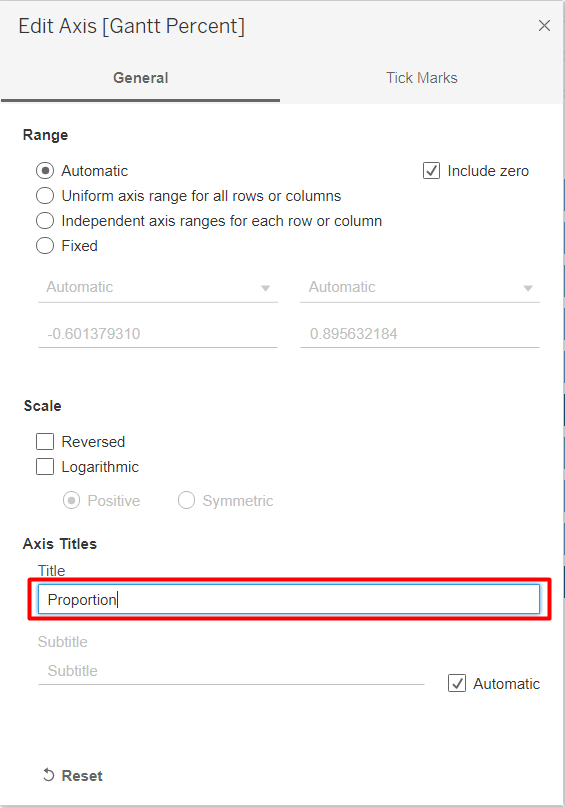
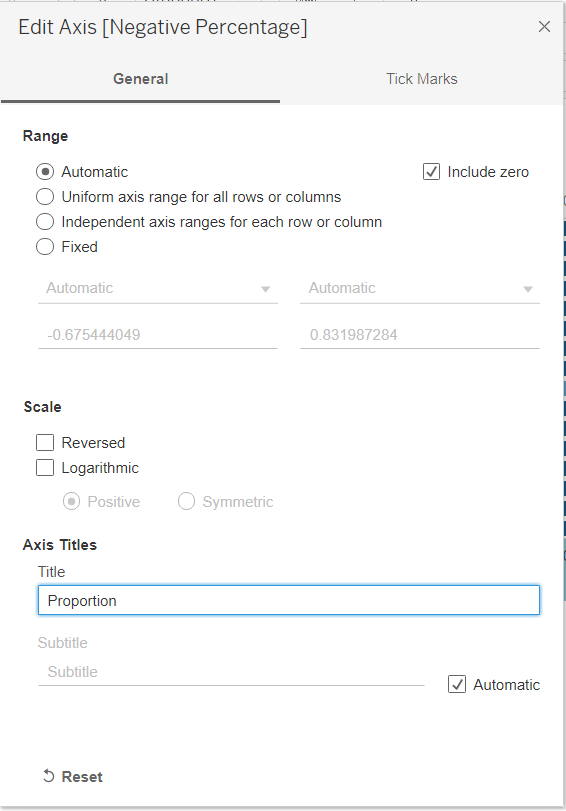
4.2. Diverging Stacked Bar Chart

diff --git a/_posts/2021-02-12-dataviz-makeover-2/dataviz-makeover-2.html b/_posts/2021-02-12-dataviz-makeover-2/dataviz-makeover-2.html
@@ -114,6 +114,9 @@ code span.wa { color: #5e5e5e; font-style: italic; } /* Warning */
   <meta name="citation_reference" content="citation_title=How to choose the colors for your data visualizations;citation_publication_date=2019;citation_author=Michael Yi"/>
   <meta name="citation_reference" content="citation_title=Why itâ€™s so hard for us to visualize uncertainty;citation_publication_date=2016;citation_author=Nicole Torres"/>
   <meta name="citation_reference" content="citation_title=Choosing colors for data visualization;citation_publication_date=2006;citation_author=M. Stone"/>
+  <meta name="citation_reference" content="citation_title=Seven different ways to display likert scale data;citation_publication_date=2020;citation_author=Alana Pirrone"/>
+  <meta name="citation_reference" content="citation_title=Rethinking the divergent stacked bar chart - placing the stronger views in the center;citation_publication_date=2020;citation_author=Steve Wexler"/>
+  <meta name="citation_reference" content="citation_title=5 tips on designing colorblind-friendly visualizations;citation_author=Jeffrey Shaffer"/>
   <!--radix_placeholder_rmarkdown_metadata-->
   
   <script type="text/json" id="radix-rmarkdown-metadata">
@@ -122,7 +125,7 @@ code span.wa { color: #5e5e5e; font-style: italic; } /* Warning */
   <!--/radix_placeholder_rmarkdown_metadata-->
   
   <script type="text/json" id="radix-resource-manifest">
-  {"type":"character","attributes":{},"value":["biblio.bibtex","biblio.yaml","dataviz-makeover-2_files/anchor-4.2.2/anchor.min.js","dataviz-makeover-2_files/bowser-1.9.3/bowser.min.js","dataviz-makeover-2_files/distill-2.2.21/template.v2.js","dataviz-makeover-2_files/jquery-1.11.3/jquery.min.js","dataviz-makeover-2_files/popper-2.6.0/popper.min.js","dataviz-makeover-2_files/tippy-6.2.7/tippy-bundle.umd.min.js","dataviz-makeover-2_files/tippy-6.2.7/tippy-light-border.css","dataviz-makeover-2_files/tippy-6.2.7/tippy.css","dataviz-makeover-2_files/tippy-6.2.7/tippy.umd.min.js","dataviz-makeover-2_files/webcomponents-2.0.0/webcomponents.js","images/2. Original Visualisation.png","images/3. Alternative Visualisation Design.jpeg","images/4.1. Add New Union.png","images/4.1. Change Data Type.png","images/4.1. Connect to Data.png","images/4.1. Custom Split.png","images/4.1. Describe Field.png","images/4.1. Edit Aliases.png","images/4.1. Export Full Data.png","images/4.1. Go to Worksheet.png","images/4.1. Hide Unused Columns.png","images/4.1. Include all csv files.png","images/4.1. Remove table.png","images/4.1. View Data.png","images/4.2. Compute Using Selected_Survey_Item.png","images/4.2. Convert to Dimension.png","images/4.2. Count Negative Formula.png","images/4.2. Create Parameter.png","images/4.2. Edit Axis Title.png","images/4.2. Edit Colors.png","images/4.2. Edit Legend Alias.png","images/4.2. Edit Title.png","images/4.2. Edit Tooltip.png","images/4.2. Exclude Nulls.png","images/4.2. Format Tick Mark Labels.png","images/4.2. Format Tooltip Percentage.png","images/4.2. Gantt Percent Formula.png","images/4.2. Gantt Start Formula.png","images/4.2. Number of Records Formula.png","images/4.2. Percentage Formula.png","images/4.2. Rows and Columns.png","images/4.2. Select Colour for Selected Survey Item.png","images/4.2. Selected Survey Item Formula.png","images/4.2. Show Parameter.png","images/4.2. Sort Selected Survey Item in Descending Order.png","images/4.2. Total Count Formula.png","images/4.2. Total Count Negative Formula.png","images/4.3. Add Confidence Interval.png","images/4.3. Add Path and Colour.png","images/4.3. Add Prop and Convert to Discrete.png","images/4.3. Add Title.png","images/4.3. Align Country Right.png","images/4.3. Convert Rank to Discrete.png","images/4.3. Convert to Dual Axis.png","images/4.3. Count Selected Response Formula.png","images/4.3. Create Paramenter - Response.png","images/4.3. Edit Tooltip.png","images/4.3. Filter Selected Survey Item.png","images/4.3. Fix Axis.png","images/4.3. Format Axis Title.png","images/4.3. Prop 95% Lower Limit.png","images/4.3. Prop 95% Upper Limit.png","images/4.3. Prop 99% Lower Limit.png","images/4.3. Prop 99% Upper Limit.png","images/4.3. Prop Formula.png","images/4.3. Proportion Circle Marks.png","images/4.3. Rank Formula.png","images/4.3. Remove Column Divider.png","images/4.3. Remove Gridline.png","images/4.3. Remove Header.png","images/4.3. Select Colours.png","images/4.3. Show Error Bars.png","images/4.3. Sort by Measure Values.png","images/4.3. Sort Formula.png","images/4.3. Sort Prop Descending.png","images/4.3. Synchronize Axis.png"]}
+  {"type":"character","attributes":{},"value":["biblio.bibtex","biblio.yaml","dataviz-makeover-2_files/anchor-4.2.2/anchor.min.js","dataviz-makeover-2_files/bowser-1.9.3/bowser.min.js","dataviz-makeover-2_files/distill-2.2.21/template.v2.js","dataviz-makeover-2_files/jquery-1.11.3/jquery.min.js","dataviz-makeover-2_files/popper-2.6.0/popper.min.js","dataviz-makeover-2_files/tippy-6.2.7/tippy-bundle.umd.min.js","dataviz-makeover-2_files/tippy-6.2.7/tippy-light-border.css","dataviz-makeover-2_files/tippy-6.2.7/tippy.css","dataviz-makeover-2_files/tippy-6.2.7/tippy.umd.min.js","dataviz-makeover-2_files/webcomponents-2.0.0/webcomponents.js","images/2. Original Visualisation.png","images/3. Alternative Visualisation Design.jpeg","images/4.1. Add New Union.png","images/4.1. Change Data Type.png","images/4.1. Connect to Data.png","images/4.1. Custom Split.png","images/4.1. Describe Field.png","images/4.1. Edit Aliases.png","images/4.1. Export Full Data.png","images/4.1. Go to Worksheet.png","images/4.1. Hide Unused Columns.png","images/4.1. Include all csv files.png","images/4.1. Remove table.png","images/4.1. View Data.png","images/4.2. Add Numeric Filter.png","images/4.2. Add String Filter.png","images/4.2. Compute Using Selected_Survey_Item.png","images/4.2. Conver to Measure.png","images/4.2. Convert to Dimension.png","images/4.2. Convert to Measure.png","images/4.2. Count Negative Formula.png","images/4.2. Create Parameter.png","images/4.2. Diverging Stacked Bar Chart.png","images/4.2. Dual Axis.png","images/4.2. Edit Axis Number Format.png","images/4.2. Edit Axis Title.png","images/4.2. Edit Colors.png","images/4.2. Edit Colour Legend.png","images/4.2. Edit Legend Alias.png","images/4.2. Edit Title.png","images/4.2. Edit Tooltip.png","images/4.2. Exclude Nulls.png","images/4.2. Format Tick Mark Labels.png","images/4.2. Format Tooltip Percentage.png","images/4.2. Gantt Percent Formula.png","images/4.2. Gantt Start Formula.png","images/4.2. Number of Records Formula.png","images/4.2. Percentage Formula.png","images/4.2. Reorder Colours.png","images/4.2. Rows and Columns Negative Positive.png","images/4.2. Rows and Columns.png","images/4.2. Select Colour for Selected Survey Item.png","images/4.2. Selected Survey Item Formula.png","images/4.2. Show Parameter.png","images/4.2. Sort Selected Survey Item in Descending Order.png","images/4.2. Total Count Formula.png","images/4.2. Total Count Negative Formula.png","images/4.3. Add Confidence Interval.png","images/4.3. Add Path and Colour.png","images/4.3. Add Prop and Convert to Discrete.png","images/4.3. Add Title.png","images/4.3. Align Country Right.png","images/4.3. Convert Rank to Discrete.png","images/4.3. Convert to Dual Axis.png","images/4.3. Count Selected Response Formula.png","images/4.3. Create Paramenter - Response.png","images/4.3. Edit Tooltip.png","images/4.3. Filter Selected Survey Item.png","images/4.3. Fix Axis.png","images/4.3. Format Axis Title.png","images/4.3. Prop 95% Lower Limit.png","images/4.3. Prop 95% Upper Limit.png","images/4.3. Prop 99% Lower Limit.png","images/4.3. Prop 99% Upper Limit.png","images/4.3. Prop Formula.png","images/4.3. Proportion Circle Marks.png","images/4.3. Rank Formula.png","images/4.3. Remove Column Divider.png","images/4.3. Remove Gridline.png","images/4.3. Remove Header.png","images/4.3. Select Colours.png","images/4.3. Show Error Bars.png","images/4.3. Sort by Measure Values.png","images/4.3. Sort Formula.png","images/4.3. Sort Prop Descending.png","images/4.3. Synchronize Axis.png","images/4A690D00-8900-4C33-BB57-340125992E60.jpeg"]}
   </script>
   <!--radix_placeholder_navigation_in_header-->
   <!--/radix_placeholder_navigation_in_header-->
@@ -1495,6 +1498,7 @@ code span.wa { color: #5e5e5e; font-style: italic; } /* Warning */
 <li><a href="#alternative-graphical-representation">3. Alternative Graphical Representation</a></li>
 <li><a href="#step-by-step-description">4. Step-by-Step Description</a><ul>
 <li><a href="#data-preparation">4.1 Data Preparation</a></li>
+<li><a href="#diverging-stacked-bar-chart">4.2. Diverging Stacked Bar Chart</a></li>
 </ul></li>
 </ul>
 </nav>
@@ -1542,11 +1546,14 @@ code span.wa { color: #5e5e5e; font-style: italic; } /* Warning */
 <figure>
 <img src="images/3.%20Alternative%20Visualisation%20Design.jpeg" alt="" /><figcaption>Figure 2. Alternative Graphical Representation</figcaption>
 </figure>
-<p>The issues that the alternative design tries to overcome is colour-coded, with orange numbers corresponding to critiques for clarity and blue numbers for critiques with regards to aesthetics.</p>
+<p>The survey data uses a 5-point Likert scale for the respondents to rate the statements. There are multiple ways to visualise Likert scale data, such as a 100% stacked bar chart as in the original visualisation, multiple pie charts, diverging stacked bar chart, and so on <span class="citation" data-cites="pirrone_2020">(Pirrone <a href="#ref-pirrone_2020" role="doc-biblioref">2020</a>)</span>.</p>
+<p>Diverging stacked bar chart will help to compare the positive and negative sentiment more clearly, but there are multiple views of how to categorise neutral opinion. Having the middle of the neutral proportion as the center line makes it hard to compare the values because there is no common baseline <span class="citation" data-cites="wexler_2020">(Wexler <a href="#ref-wexler_2020" role="doc-biblioref">2020</a>)</span>. Therefore, the first part of the alternative design is a diverging stacked bar chart, in which we will split the neutral opinion and put it at the outermost part of the stacked bar.</p>
+<p>The second part of the alternative design is a dot plot with error bar that indicates the confidence interval of the proportion. This will show the underlying variation in the data and prevent misleading the users.</p>
+<p>The issues from the original visualisation that the alternative design tries to overcome is colour-coded in Figure 2, with orange numbers corresponding to critiques for clarity and blue numbers for critiques with regards to aesthetics.</p>
 <h3 id="clarity-1">Clarity:</h3>
 <ol type="1">
 <li>To show an order in the survey response using a <strong>diverging colour scale</strong>.</li>
-<li>To show the uncertainty using an <strong>error bar</strong> in the breakdown chart.</li>
+<li>To show the uncertainty using an <strong>error bar</strong> in the dot plot.</li>
 <li>To <strong>allow the users to toggle between different response of interest</strong>. The users may choose to view individual percentage and error bars for ‘Strongly Agree’, ‘Agree’, ‘Neutral’, ‘Disagree’, and ‘Strongly Disagree’.</li>
 <li>To <strong>sort the order of countries in both graphs consistently</strong> in descending manner according to the selected response of interest in the right graph.</li>
 </ol>
@@ -1653,6 +1660,7 @@ code span.wa { color: #5e5e5e; font-style: italic; } /* Warning */
 <figure>
 <img src="images/4.1.%20Custom%20Split.png" alt="" /><figcaption>Figure 13. Custom Split</figcaption>
 </figure>
+<p>On each column there are ‘Abc’ or ‘#’ symbol. ‘Abc’ means the column is a string, while ‘#’ means it is numerical. If the symbol starts with an equal sign, such as ‘=Abc’ or ‘=#’, it means the column is a calculated field. Ensure that the survey items are in a string format before doing the split. If they are not, click on the data type and change it to String.</p>
 <p>The value for 1 is ‘1 - Strongly Agree’. Notice that the numerical value is the first part of the string before a space bar. Therefore, we will split the first column using the space bar as a separator.</p>
 <ul>
 <li><strong>Right-click</strong> on one of the survey items’ column header (e.g. vac 1) &gt; <strong>Custom Split…</strong></li>
@@ -1670,12 +1678,151 @@ code span.wa { color: #5e5e5e; font-style: italic; } /* Warning */
 <figure>
 <img src="images/4.1.%20Change%20Data%20Type.png" alt="" /><figcaption>Figure 15. Change Data Type</figcaption>
 </figure>
-<p>On each column there are ‘Abc’ or ‘#’ symbol. ‘Abc’ means the column is a string, while ‘#’ means it is numerical. If the symbol starts with an equal sign, such as ‘=Abc’ or ‘=#’, it means the column is a calculated field.</p>
 <ul>
 <li>Click on the <strong>data type symbol</strong> &gt; <strong>Number (whole)</strong></li>
 </ul>
-<p>We can also rename the column and hide the original column to make it cleaner. I renamed all original columns with an added suffix ‘-ori’ and used the original column names in the new columns.</p>
+<p>We can also rename the column and hide the original column to make it cleaner. I added a suffix ‘- ori’ the original columns and used the original column names in the calculated columns.</p>
 <p><strong>Repeat</strong> the steps from Figure 13 for all survey items, and we are ready to create the visualisation.</p>
+<h2 id="diverging-stacked-bar-chart">4.2. Diverging Stacked Bar Chart</h2>
+<h3 id="creating-visualisation">Creating Visualisation</h3>
+<p>We will need make use of parameters to allow the users to dynamically change the survey items being displayed.</p>
+<figure>
+<img src="images/4.2.%20Create%20Parameter.png" alt="" /><figcaption>Figure 16. Create Parameter for Survey Item</figcaption>
+</figure>
+<ul>
+<li>Go to worksheet.</li>
+<li><strong>Right-click</strong> on an empty space in the data pane &gt; <strong>Create Parameter…</strong>. Tableau can be a bit picky about this, the ‘Create Parameter’ option does not show if you accidentally click on a field name. I found that the best place to click is just below the <em>Measure Values</em>.</li>
+<li>Enter <strong>‘Select Survey Item’</strong> as <strong>name</strong> for the parameter.</li>
+<li>Change <strong>data type</strong> to <strong>String</strong>.</li>
+<li>Select <strong>List</strong> for allowable values.</li>
+<li><strong>Enter the list of values</strong>. I used the column names (vac_1, vac2_1, vac2_2, vac2_3, vac2_6, and vac_3) for the value and the survey questions for the display as. Refer to <a href="https://github.com/YouGov-Data/covid-19-tracker/blob/master/codebook.xlsx">/covid-19-tracker/codebook.xlsx</a> to get the survey questions.</li>
+<li>click <strong>OK</strong>.</li>
+</ul>
+<figure>
+<img src="images/4.2.%20Number%20of%20Records%20Formula.png" alt="" /><figcaption>Figure 17. Create Calculated Fields</figcaption>
+</figure>
+<p>We will need several calculated fields to enable the visualisation. The steps to create a calculated fields are: * <strong>Right-click</strong> on an empty space in the data pane &gt; <strong>Create Calculated Field…</strong>. * Enter the <strong>field name</strong> and the <strong>formula</strong>.</p>
+<p>The formulas that we need for the diverging stacked bar chart are:</p>
+<ol class="example" type="1">
+<li><p><strong>Number of Records</strong>:</p>
+<p>1</p></li>
+<li><p><strong>Selected Survey Item</strong>:</p>
+<p>CASE [Select Survey Item] when ‘vac1’ then [Vac 1] when ‘vac2_1’ then [Vac2 1] when ‘vac2_2’ then [Vac2 2] when ‘vac2_3’ then [Vac2 3] when ‘vac2_6’ then [Vac2 6] when ‘vac3’ then [Vac 3] end</p></li>
+<li><p><strong>Count Positive</strong>:</p>
+<p>If [Selected_Survey_Item] &lt; 3 then 1 elseif [Selected_Survey_Item] = 3 then 0.5 else 0 END</p></li>
+<li><p><strong>Count Negative</strong>:</p>
+<p>If [Selected_Survey_Item] &gt; 3 then -1 elseif [Selected_Survey_Item] = 3 then -0.5 else 0 END</p></li>
+<li><p><strong>Positive Percentage</strong>:</p>
+<p>SUM([Count Positive]) / TOTAL(SUM([Number of Records]))</p></li>
+<li><p><strong>Negative Percentage</strong>:</p>
+<p>SUM([Count Negative]) / TOTAL(SUM([Number of Records]))</p></li>
+</ol>
+<p>We create the visualisation by adding fields to the rows and columns shelves, as well as the filters and marks cards. Figure 18 shows the first cut of the visualisation.</p>
+<figure>
+<img src="images/4.2.%20Rows%20and%20Columns%20Negative%20Positive.png" alt="" /><figcaption>Figure 18. Specify Rows and Columns Fields</figcaption>
+</figure>
+<p>To get to this stage, the steps are:</p>
+<p>** Drag <strong>Negative Percentage</strong> and <strong>Positive Percentage</strong> to Columns. ** Drag <strong>Country</strong> to Rows. * We are not interested in the average or sum of the survey response, but we are going to treat is a category that describes the responses. Therefore, we need to convert it to a dimension by doing <strong>right-click</strong> on the <strong>Selected_Survey_Item</strong> field in the data pane &gt; <strong>Convert to Dimension</strong>. * Drag ** Drag <strong>Negative Percentage</strong> and <strong>Positive Percentage</strong> to Columns. * Drag <strong>Selected_Survey_Items</strong> to <strong>Color Marks Card</strong>. * Drag <strong>Selected_Survey_Items</strong> to <strong>Filters Card</strong> and select <strong>All</strong>, then <strong>uncheck Null</strong> to remove all null responses.</p>
+<figure>
+<img src="images/4.2.%20Edit%20Colour%20Legend.png" alt="" /><figcaption>Figure 19. Edit Colour Legend</figcaption>
+</figure>
+<p>The visualisation is not completed yet, but I found it confusing to look at when the colour seem randomly chosen and the legend are not informative. We are going to stop a while to fix the legend before continuing.</p>
+<ul>
+<li><strong>Right-click</strong> on the legend label &gt; <strong>Edit Alias…</strong>. We know that 1 signifies ‘Strongly Agree’ while 5 stands for ‘Strongly Disagree’. So we enter the descriptions accordingly for 2, 3, and 4 as well.</li>
+</ul>
+<figure>
+<img src="images/4.2.%20Select%20Colour%20for%20Selected%20Survey%20Item.png" alt="" /><figcaption>Figure 20. Select Colour for Each Response</figcaption>
+</figure>
+<ul>
+<li><strong>Double-click</strong> on the colour legend to open the edit color window.</li>
+<li><strong>Select the colours</strong>. I used the <strong>Color Blind</strong> palette to ensure that the visualisation can be understood clearly, as ten percent of men has red-green colour-blindness <span class="citation" data-cites="shaffer">(Shaffer, <a href="#ref-shaffer" role="doc-biblioref">n.d.</a>)</span>. <strong>Shades of blue</strong> colour are used to represent <strong>positive</strong> responses while <strong>shades of red</strong> are used to represent the <strong>negative</strong> sentiment.</li>
+</ul>
+<figure>
+<img src="images/4.2.%20Compute%20Using%20Selected_Survey_Item.png" alt="" /><figcaption>Figure 21. Compute Using Selected_Survey_Item</figcaption>
+</figure>
+<p>Notice that in Figure 18, the negative and positive percentage for each country do not add up to 100% and Israel has the smallest bar compared to other countries. To rectify this issue, ensure the percentages are computed based on the selected survey item.</p>
+<ul>
+<li><strong>Right-click</strong> on <strong>Negative Percentage</strong> pill on the columns shelf &gt; <strong>Compute Using</strong> &gt; <strong>Selected_Survey_Item</strong>.</li>
+<li><strong>Repeat</strong> for <strong>Positive Percentage</strong>.</li>
+</ul>
+<figure>
+<img src="images/4.2.%20Dual%20Axis.png" alt="" /><figcaption>Figure 22. Use Dual Axis</figcaption>
+</figure>
+<p>Although the percentages add up to 100% now, but they are actually plotting the positive and negative percentages side by side with a different axis scale. We will use dual axis to standardise the two axis.</p>
+<ul>
+<li><strong>Right-click</strong> on <strong>Positive Percentage</strong> pill on the column shelf &gt; <strong>Dual Axis</strong>.</li>
+<li>Don’t panic if your visualisation suddenly goes haywire. Click <strong>All Marks Card</strong> then change the visualisation type from Automatic to <strong>Bar</strong>.</li>
+<li><strong>Right-click</strong> on the <strong>Positive Percentage Axis</strong> &gt; <strong>Synchronize Axis</strong>.</li>
+<li>We can get back the original colour we have chosen by removing the Measure Names from the colour marks card. We can <strong>drag</strong> the <strong>Measure Names</strong> field <strong>off from the Marks Card</strong>. Ensure we are still selecting the All Marks Card while doing so.</li>
+</ul>
+<figure>
+<img src="images/4.2.%20Reorder%20Colours.png" alt="" /><figcaption>Figure 23. Reorder Colours</figcaption>
+</figure>
+<p>Previously, neutral bars are drawn first for the Positive Percentage. We can rearrange the bars by manually reordering the colour in the colour legend.</p>
+<ul>
+<li><strong>Drag Neutral</strong> colour to the top.</li>
+<li><strong>Swap</strong> the order between <strong>Strongly Agree</strong> and Agree.</li>
+</ul>
+<p>This creates an unintuitive order for the colour legend, but it is fine. We will not use this legend in the final dashboard.</p>
+<h3 id="customisation">Customisation</h3>
+<p>We can do some final touch up to customise how our visualisation looks like. For a more detailed steps to change each of the elements, take a look at my <a href="https://gabriellapauline.netlify.app/dataviz/2021-01-29-dataviz-makeover-1/#step-by-step-description">first dataviz makeover post</a>.</p>
+<h4 id="axis">Axis</h4>
+<figure>
+<img src="images/4.2.%20Edit%20Axis%20Title.png" alt="" /><figcaption>Figure 24. Edit Axis Title</figcaption>
+</figure>
+<p>For the axis, we are going edit the title and format the numbers.</p>
+<ul>
+<li><strong>Right-click</strong> on the <strong>Negative Percentage axis</strong> &gt; <strong>Edit Axis…</strong></li>
+<li>Change the <strong>Title</strong> to <strong>Proportion</strong>.</li>
+<li>Remove the top axis by doing <strong>right-click</strong> on the <strong>Positive Percentage axis</strong> &gt; <strong>uncheck Show Header</strong></li>
+</ul>
+<figure>
+<img src="images/4.2.%20Edit%20Axis%20Number%20Format.png" alt="" /><figcaption>Figure 25. Edit Axis Number Format</figcaption>
+</figure>
+<ul>
+<li><ul>
+<li><strong>Right-click</strong> on the <strong>axis</strong> &gt; <strong>Format…</strong></li>
+</ul></li>
+<li>Click <strong>Axis</strong> &gt; <strong>Numbers</strong> &gt; <strong>Percentage</strong>.</li>
+<li>Use <strong>0 decimal points</strong>.</li>
+<li>Repeat for the top axis. I chose to leave it inside instead of removing it because it might be easier to see since we have numerous countries.</li>
+</ul>
+<h4 id="title">Title</h4>
+<p>Remember the parameter we created earlier? We are going to use the questions as the title.</p>
+<figure>
+<img src="images/4.2.%20Edit%20Title.png" alt="" /><figcaption>Figure 26. Edit Title</figcaption>
+</figure>
+<ul>
+<li><strong>Double-click</strong> on the <strong>title</strong>.</li>
+<li><strong>Insert</strong> &gt; <strong>Parameters.SelectSurveyItem</strong> &gt; <strong>OK</strong>.</li>
+<li>We can show the parameter to check. Go to the data pane, <strong>right-click</strong> on the <strong>Select Survey Item</strong> &gt; <strong>Show Parameter</strong>. We can toggle the different survey items we want to see and the visualisation will change accordingly.</li>
+</ul>
+<h4 id="filters">Filters</h4>
+<p>Having filters allow the users to interact with the visualisation and tailor it according to their needs. We will use Employment Status, Gender, Household Children and Household Size fields as the filters.</p>
+<figure>
+<img src="images/4.2.%20Add%20String%20Filter.png" alt="" /><figcaption>Figure 27. Add String Filters</figcaption>
+</figure>
+<ul>
+<li><strong>Drag Employment Status</strong> to the <strong>Filters</strong>.</li>
+<li>Click <strong>All</strong> &gt; <strong>OK</strong>.</li>
+<li><strong>Right-click</strong> on the <strong>Employment Status</strong> pill in the filter card &gt; <strong>Show Filter</strong>.</li>
+<li><strong>Repeat</strong> for <strong>Gender</strong>.</li>
+</ul>
+<figure>
+<img src="images/4.2.%20Add%20Numeric%20Filter.png" alt="" /><figcaption>Figure 28. Add Numeric Filters</figcaption>
+</figure>
+<p>For the numeric filter, the interface is slightly different because we can pick a range of values.</p>
+<ul>
+<li><strong>Drag Household Size</strong> to the <strong>Filters</strong>.</li>
+<li><strong>All values</strong> &gt; <strong>Next</strong>.</li>
+<li>Check <strong>include null values</strong> &gt; <strong>OK</strong>. This might dilute the information because the nulls will still be included when we want to examine by a certain household size, but filtering out the nulls can cause us to lose a significant subset of data. For this trade-off, I chose to include the nulls.</li>
+<li><strong>Right-click</strong> on the <strong>Household Size</strong> pill in the filter card &gt; <strong>Show Filter</strong>.</li>
+<li><strong>Repeat</strong> for <strong>Household Children</strong>.</li>
+</ul>
+<figure>
+<img src="images/4.2.%20Diverging%20Stacked%20Bar%20Chart.png" alt="" /><figcaption>Figure 29. Diverging Stacked Bar Chart</figcaption>
+</figure>
+<p>One down, one more to go!</p>
 <div class="sourceCode" id="cb1"><pre class="sourceCode r distill-force-highlighting-css"><code class="sourceCode r"></code></pre></div>
 <div id="refs" class="references" role="doc-bibliography">
 <div id="ref-charumilind_craven_lamb_sabow_wilson_2021">
@@ -1684,11 +1831,20 @@ code span.wa { color: #5e5e5e; font-style: italic; } /* Warning */
 <div id="ref-jones_sarah_2020">
 <p>Jones, and P Sarah. 2020. “Imperial College London Yougov Covid Data Hub.” <em>GitHub</em>. Imperial College London Big Data Analytical Unit and YouGov Plc. 2020. <a href="https://github.com/YouGov-Data/covid-19-tracker">https://github.com/YouGov-Data/covid-19-tracker</a>.</p>
 </div>
+<div id="ref-pirrone_2020">
+<p>Pirrone, Alana. 2020. “Seven Different Ways to Display Likert Scale Data.” <em>Medium</em>. <a href="https://medium.com/nightingale/seven-different-ways-to-display-likert-scale-data-d0c1c9a9ad59">https://medium.com/nightingale/seven-different-ways-to-display-likert-scale-data-d0c1c9a9ad59</a>.</p>
+</div>
+<div id="ref-shaffer">
+<p>Shaffer, Jeffrey. n.d. “5 Tips on Designing Colorblind-Friendly Visualizations.” <em>Tableau</em>. <a href="https://www.tableau.com/about/blog/2016/4/examining-data-viz-rules-dont-use-red-green-together-53463">https://www.tableau.com/about/blog/2016/4/examining-data-viz-rules-dont-use-red-green-together-53463</a>.</p>
+</div>
 <div id="ref-Stone2006ChoosingCF">
 <p>Stone, M. 2006. “Choosing Colors for Data Visualization.” <em>Perceptual Edge</em>. <a href="http://www.perceptualedge.com/articles/b-eye/choosing_colors.pdf">http://www.perceptualedge.com/articles/b-eye/choosing_colors.pdf</a>.</p>
 </div>
 <div id="ref-torres_2016">
 <p>Torres, Nicole. 2016. “Why It’s so Hard for Us to Visualize Uncertainty.” <em>Harvard Business Review</em>. <a href="https://hbr.org/2016/11/why-its-so-hard-for-us-to-visualize-uncertainty">https://hbr.org/2016/11/why-its-so-hard-for-us-to-visualize-uncertainty</a>.</p>
+</div>
+<div id="ref-wexler_2020">
+<p>Wexler, Steve. 2020. “Rethinking the Divergent Stacked Bar Chart - Placing the Stronger Views in the Center.” <em>Data Revelations</em>. <a href="https://www.datarevelations.com/resources/rethinkingdivergent/">https://www.datarevelations.com/resources/rethinkingdivergent/</a>.</p>
 </div>
 <div id="ref-yi_2019">
 <p>Yi, Michael. 2019. “How to Choose the Colors for Your Data Visualizations.” <em>Medium</em>. <a href="https://medium.com/nightingale/how-to-choose-the-colors-for-your-data-visualizations-50b2557fa335">https://medium.com/nightingale/how-to-choose-the-colors-for-your-data-visualizations-50b2557fa335</a>.</p>
